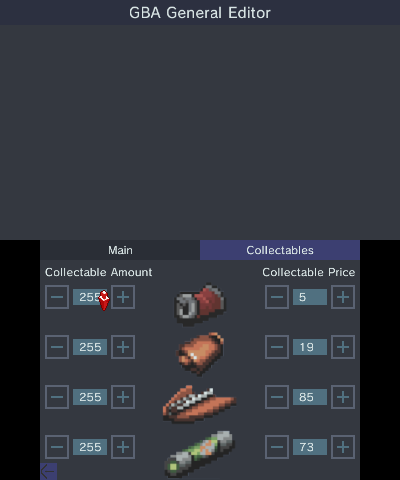
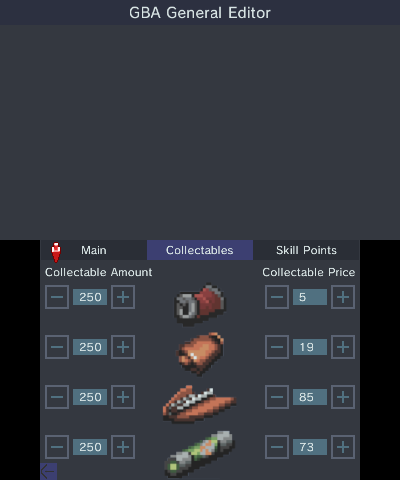
[GBA]: Added Skill Points Editing.

diff --git a/3ds/source/screens/editor/gba/GBAGeneralEditor.cpp b/3ds/source/screens/editor/gba/GBAGeneralEditor.cpp
@@ -26,6 +26,7 @@
 
 #include "Common.hpp"
 #include "GBAGeneralEditor.hpp"
+#include "Strings.hpp"
 
 /* Initialize the GBASlot + the Labels. */
 GBAGeneralEditor::GBAGeneralEditor(std::shared_ptr<GBASlot> &Slot) : Slot(Slot) {
@@ -54,6 +55,14 @@ GBAGeneralEditor::GBAGeneralEditor(std::shared_ptr<GBASlot> &Slot) : Slot(Slot) 
 	/* Init Collectables. - Nuclear Fuelrods. */
 	this->CollectableLabels.push_back(std::make_unique<NumInputLabel<uint8_t>>(5, 195, this->Slot->Fuelrods(), 0, 250, "Enter the Nuclear Fuelrods Amount."));
 	this->CollectableLabels.push_back(std::make_unique<NumInputLabel<uint8_t>>(225, 195, this->Slot->FuelrodsPrice(), 0, 255, "Enter the Nuclear Fuelrods Price."));
+
+	/* Init Skill point Labels. */
+	this->SkillLabels.push_back(std::make_unique<NumInputLabel<uint8_t>>(190, 40, this->Slot->Confidence(), 0, 5, "Enter the Confidence Skill Points."));
+	this->SkillLabels.push_back(std::make_unique<NumInputLabel<uint8_t>>(190, 70, this->Slot->Mechanical(), 0, 5, "Enter the Mechanical Skill Points."));
+	this->SkillLabels.push_back(std::make_unique<NumInputLabel<uint8_t>>(190, 100, this->Slot->Strength(), 0, 5, "Enter the Strength Skill Points."));
+	this->SkillLabels.push_back(std::make_unique<NumInputLabel<uint8_t>>(190, 130, this->Slot->Personality(), 0, 5, "Enter the Personality Skill Points."));
+	this->SkillLabels.push_back(std::make_unique<NumInputLabel<uint8_t>>(190, 160, this->Slot->Hotness(), 0, 5, "Enter the Hotness Skill Points."));
+	this->SkillLabels.push_back(std::make_unique<NumInputLabel<uint8_t>>(190, 190, this->Slot->Intellect(), 0, 5, "Enter the Intellect Skill Points."));
 };
 
 /* Goes back to the Slot Editor. */
@@ -70,10 +79,12 @@ void GBAGeneralEditor::Draw(void) const {
 	GFX::DrawBottom();
 
 	/* Draw Tabs. */
-	Gui::Draw_Rect(0, 0, 160, 20, (this->Tab == Tabs::Main ? KBD_KEYPRESSED : KD_KEYUNPRESSED));
-	Gui::Draw_Rect(160, 0, 160, 20, (this->Tab == Tabs::Collectables ? KBD_KEYPRESSED : KD_KEYUNPRESSED));
-	Gui::DrawStringCentered(-80, 3, 0.45f, TEXT_COLOR, "Main");
-	Gui::DrawStringCentered(80, 3, 0.45f, TEXT_COLOR, "Collectables");
+	Gui::Draw_Rect(1, 0, 106, 20, (this->Tab == Tabs::Main ? KBD_KEYPRESSED : KD_KEYUNPRESSED));
+	Gui::Draw_Rect(107, 0, 106, 20, (this->Tab == Tabs::Collectables ? KBD_KEYPRESSED : KD_KEYUNPRESSED));
+	Gui::Draw_Rect(213, 0, 106, 20, (this->Tab == Tabs::SkillPoints ? KBD_KEYPRESSED : KD_KEYUNPRESSED));
+	Gui::DrawString(1 + 40, 3, 0.45f, TEXT_COLOR, "Main");
+	Gui::DrawString(107 + 19, 3, 0.45f, TEXT_COLOR, "Collectables");
+	Gui::DrawString(213 + 23, 3, 0.45f, TEXT_COLOR, "Skill Points");
 
 	switch(this->Tab) {
 		case Tabs::Main:
@@ -102,10 +113,17 @@ void GBAGeneralEditor::Draw(void) const {
 			Gui::DrawSprite(GFX::Sprites, sprites_spaceship_idx, 122, 140);
 			Gui::DrawSprite(GFX::Sprites, sprites_fuelrod_idx, 122, 190);
 			break;
+
+		case Tabs::SkillPoints:
+			for (uint8_t Idx = 0; Idx < 6; Idx++) {
+				Gui::DrawString(50, 44 + (Idx * 30), 0.5f, TEXT_COLOR, Strings::GBASkillPointNames_EN[Idx]);
+				this->SkillLabels[Idx]->Draw();
+			}
+			break;
 	}
 
-	Gui::Draw_Rect(this->Positions[2].X, this->Positions[2].Y, this->Positions[2].W, this->Positions[2].H, KBD_KEYPRESSED); // Back Icn.
-	Gui::DrawSprite(GFX::Sprites, sprites_back_btn_idx, this->Positions[2].X, this->Positions[2].Y);
+	Gui::Draw_Rect(this->Positions[3].X, this->Positions[3].Y, this->Positions[3].W, this->Positions[3].H, KBD_KEYPRESSED); // Back Icn.
+	Gui::DrawSprite(GFX::Sprites, sprites_back_btn_idx, this->Positions[3].X, this->Positions[3].Y);
 
 	Pointer::Draw();
 };
@@ -152,6 +170,39 @@ void GBAGeneralEditor::CollectableUpdater(const uint8_t Idx) {
 	}
 };
 
+/*
+	Just a way to not have a whole mess on the KEY_A whatever operations.
+	This basically sets the proper things into the Slot.
+
+	const uint8_t Idx: The Index of the Skillpoint.
+*/
+void GBAGeneralEditor::SkillUpdater(const uint8_t Idx) {
+	switch(Idx) {
+		case 0:
+			this->Slot->Confidence(this->SkillLabels[0]->GetVal());
+			break;
+
+		case 1:
+			this->Slot->Mechanical(this->SkillLabels[1]->GetVal());
+			break;
+
+		case 2:
+			this->Slot->Strength(this->SkillLabels[2]->GetVal());
+			break;
+
+		case 3:
+			this->Slot->Personality(this->SkillLabels[3]->GetVal());
+			break;
+
+		case 4:
+			this->Slot->Hotness(this->SkillLabels[4]->GetVal());
+			break;
+
+		case 5:
+			this->Slot->Intellect(this->SkillLabels[5]->GetVal());
+			break;
+	}
+};
 
 void GBAGeneralEditor::Logic(u32 hDown, u32 hHeld, touchPosition touch) {
 	Pointer::FrameHandle();
@@ -314,9 +365,8 @@ void GBAGeneralEditor::Logic(u32 hDown, u32 hHeld, touchPosition touch) {
 			}
 		}
 
-
 	/* Collectables Tab. */
-	} else {
+	} else if (this->Tab == Tabs::Collectables) {
 		if (hDown & KEY_A) {
 			bool Pressed = false;
 
@@ -376,9 +426,100 @@ void GBAGeneralEditor::Logic(u32 hDown, u32 hHeld, touchPosition touch) {
 				}
 			}
 		}
+
+	} else if (this->Tab == Tabs::SkillPoints) {
+		if (hDown & KEY_A) {
+			bool Pressed = false;
+
+			for (auto &Pos : this->Positions) {
+				if (Pointer::Callback(Pos, true)) {
+					Pressed = true;
+					break;
+				}
+			}
+
+			if (!Pressed) {
+				for (uint8_t Idx = 0; Idx < 6; Idx++) {
+					if (SkillLabels[Idx]->CallbackA()) {
+						this->SkillUpdater(Idx);
+						break;
+					}
+				}
+			}
+		}
+
+		/* NUM Input Labels Only. */
+		if (hRepeat & KEY_A) {
+			for (uint8_t Idx = 0; Idx < 6; Idx++) {
+				if (SkillLabels[Idx]->CallbackAmountA()) {
+					this->SkillUpdater(Idx);
+					break;
+				}
+			}
+		}
+
+		/* Same for Touch as well now. */
+		if (hDown & KEY_TOUCH) {
+			bool Pressed = false;
+
+			for (auto &Pos : this->Positions) {
+				if (Touching(Pos, touch, true)) {
+					Pressed = true;
+					break;
+				}
+			}
+
+			if (!Pressed) {
+				for (uint8_t Idx = 0; Idx < 6; Idx++) {
+					if (SkillLabels[Idx]->CallbackTouch(touch)) {
+						this->SkillUpdater(Idx);
+						break;
+					}
+				}
+			}
+		}
+
+		/* Same for the Minus and Plus buttons as well. */
+		if (hRepeat & KEY_TOUCH) {
+			if (this->Exit) return;
+
+			for (uint8_t Idx = 0; Idx < 6; Idx++) {
+				if (SkillLabels[Idx]->CallbackAmountTouch(touch)) {
+					this->SkillUpdater(Idx);
+					break;
+				}
+			}
+		}
 	}
 
 	if (hDown & KEY_B) this->Back();
-	if (hDown & KEY_L) this->MainTab();
-	if (hDown & KEY_R) this->CollectableTab();
+	if (hDown & KEY_L) {
+		switch(this->Tab) {
+			case Tabs::SkillPoints:
+				this->CollectableTab();
+				break;
+
+			case Tabs::Collectables:
+				this->MainTab();
+				break;
+
+			case Tabs::Main:
+				break;
+		}
+	}
+
+	if (hDown & KEY_R) {
+		switch(this->Tab) {
+			case Tabs::Main:
+				this->CollectableTab();
+				break;
+
+			case Tabs::Collectables:
+				this->SkillPointsTab();
+				break;
+
+			case Tabs::SkillPoints:
+				break;
+		}
+	}
 };

diff --git a/3ds/include/screens/editor/gba/GBAGeneralEditor.hpp b/3ds/include/screens/editor/gba/GBAGeneralEditor.hpp
@@ -41,7 +41,7 @@ public:
 	void Draw(void) const override;
 	void Logic(u32 hDown, u32 hHeld, touchPosition touch) override;
 private:
-	enum class Tabs : uint8_t { Main, Collectables };
+	enum class Tabs : uint8_t { Main, Collectables, SkillPoints };
 
 	bool Exit = false; // This is needed cause the whole hRepeat operations on touch exit are quite bugged otherwise and cause a crash.
 	std::shared_ptr<GBASlot> Slot = nullptr;
@@ -50,21 +50,26 @@ private:
 	std::vector<std::unique_ptr<NumInputLabel<uint8_t>>> TimeLabels = { }; // uint8_t.
 	std::vector<std::unique_ptr<NumInputLabel<uint8_t>>> CollectableLabels = { }; // uint8_t.
 	std::unique_ptr<StringInputLabel> NameLabel = nullptr;
+	std::vector<std::unique_ptr<NumInputLabel<uint8_t>>> SkillLabels = { }; // uint8_t.
 	Tabs Tab = Tabs::Main;
 
 	/* Shared. */
 	void MainTab() { this->Tab = Tabs::Main; };
 	void CollectableTab() { this->Tab = Tabs::Collectables; };
+	void SkillPointsTab() { this->Tab = Tabs::SkillPoints; };
 	void Back();
 
 	const std::vector<PointerStr> Positions = {
-		{ 0, 0, 160, 20, [this]() { this->MainTab(); } },
-		{ 160, 0, 160, 20, [this]() { this->CollectableTab(); } },
+		{ 1, 0, 106, 20, [this]() { this->MainTab(); } },
+		{ 107, 0, 106, 20, [this]() { this->CollectableTab(); } },
+		{ 213, 0, 106, 20, [this]() { this->SkillPointsTab(); } },
 		{ 0, 223, 17, 17, [this]() { this->Back(); } }
 	};
 
 	/* Collectables Tab. */
 	void CollectableUpdater(const uint8_t Idx);
+	/* Skill Points Tab. */
+	void SkillUpdater(const uint8_t Idx);
 };
 
 #endif

diff --git a/3ds/source/screens/Settings.cpp b/3ds/source/screens/Settings.cpp
@@ -145,8 +145,9 @@ void Settings::DrawPages() const {
 
 			/* Change this, after changes to the 3DS version. */
 			Gui::DrawStringCentered(0, 130, 0.4f, TEXT_COLOR,
-				"* Initial C++ Core of Sim2Editor + 3DS version.\n"
-				"* [CORE]: Stop reading a String if 0x0."
+				"* [GBA]: Added Skill Points Editing.\n"
+				"* [GBA]: Display the current Episode you are in.\n"
+				"* [GBA]: Proper Movement Offset support."
 			);
 			break;
 	}

diff --git a/README.md b/README.md
@@ -28,7 +28,7 @@ For a list of features of the C++ Core, check [this](https://github.com/Universa
 ![](https://github.com/Universal-Team/Sim2Editor/blob/console/screenshots/3DS/gbaSocialMoveEditor.png) ![](https://github.com/Universal-Team/Sim2Editor/blob/console/screenshots/3DS/gbaSocialMoveSelector.png)
 
 ### General Editor
-![](https://github.com/Universal-Team/Sim2Editor/blob/console/screenshots/3DS/gbaGeneralEditorMain.png) ![](https://github.com/Universal-Team/Sim2Editor/blob/console/screenshots/3DS/gbaGeneralEditorCollectables.png)
+![](https://github.com/Universal-Team/Sim2Editor/blob/console/screenshots/3DS/gbaGeneralEditorMain.png) ![](https://github.com/Universal-Team/Sim2Editor/blob/console/screenshots/3DS/gbaGeneralEditorCollectables.png) ![](https://github.com/Universal-Team/Sim2Editor/blob/console/screenshots/3DS/gbaGeneralEditorSkillPoints.png)
 
 ### Slot Editor
 ![](https://github.com/Universal-Team/Sim2Editor/blob/console/screenshots/3DS/gbaSlotSelector.png) ![](https://github.com/Universal-Team/Sim2Editor/blob/console/screenshots/3DS/gbaSlotEditor.png)

diff --git a/Features-List.md b/Features-List.md
@@ -37,6 +37,12 @@
 - [x] Edit Cowbells Amount + Sell price.
 - [x] Edit Alien Spaceship Parts Amount + Sell price.
 - [x] Edit Nuclear Fuelrods Amount + Sell price.
+- [x] Edit Confident Skill Points.
+- [x] Edit Mechanical Skill Points.
+- [x] Edit Strength Skill Points.
+- [x] Edit Personality Skill Points.
+- [x] Edit Hotness Skill Points.
+- [x] Edit Intellect Skill Points.
 
 
 ## NDS (The Sims 2 Version)
